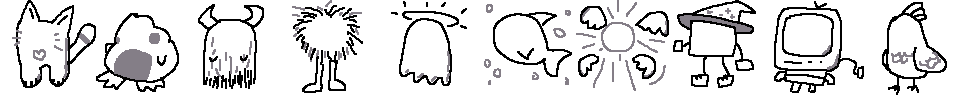
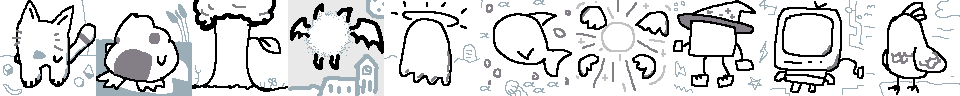
Ready for con
Add datetime, and new designs

diff --git a/side-projects/print-pals/index.html b/side-projects/print-pals/index.html
@@ -16,6 +16,7 @@
 
     body{
         font-family: Sniglet;
+        font-size: 14px;
         
     }
     .doc {
@@ -42,6 +43,7 @@
     }
     #sticker{
         display: flex;
+        position: relative;
         width:200px; height:150px; overflow: hidden;
         background-color: #fff;
         /* TODO Add the ally guide bg to this */
@@ -54,12 +56,14 @@
         /* background-size:cover; */
         height: 100%;
         display: flex;
+        align-content: center;
         flex-wrap: wrap;
         justify-content: space-between;
     }
     #sprite-container{
         flex: 1;
         position: relative;
+        min-width: 96px;
         height: 96px;
     }
     .sprite-bit{
@@ -95,19 +99,35 @@
         width: 100%;
     }
     .title{
+        font-size: 12px;
         font-weight: 500;
-        -webkit-text-stroke: 2px #333; 
+        -webkit-text-stroke: 1px #333; 
         kerning: 4px;
         padding-top: 8px;
         color: #333;
     }
     #name{
-        max-height: 2em;
+        -webkit-text-stroke: 1px #333; 
+        max-height: 3em;
+        line-height: 1em;
         overflow: hidden;
-        line-height: .8;
+        width: 96px;
+        margin-bottom: 4px;
     }
     #nature, #lvl{
         margin-left: 16px;
+        font-size: 12px;
+    }
+    #lvl{
+        margin-left: 4px;
+    }
+    #timestamp{
+        position: absolute;
+        bottom: 1px;
+        font-size: 6px;
+        /* margin-top: -3x; */
+        text-align: right;
+        width: 100%;
     }
 </style>
 <body>
@@ -125,6 +145,7 @@
 <div id="sticker">
 
     <div id="sticker-content">
+
         <div id="sprite-container">
             <div id="sprite-egg" class="sprite-bit"></div>
             <div id="sprite-blob" class="sprite-bit hidden"></div>
@@ -136,9 +157,10 @@
             <div id="name"></div>
             <div id="nature-container"> <span class="title">NATURE: </span> <div id="nature"></div></div>
 
-            <div id="level"><span class="title">LVL:</span> <div id="lvl">EGG</div> </div>
+            <div id="level"><span class="title">LVL:</span> <span id="lvl">EGG</span> </div>
         </div>
         <div id="quest-cointainer"><span class="title">QUEST:</span> <span id="quest"></span></div>
+        <div id="timestamp"></div>
 
     </div>
 </div>
@@ -149,11 +171,15 @@
 
     var natures = ["Adamant","Bashful", "Bold", "Brave", "Calm", "Careful", "Docile", "Gentle", "Hardy", "Hasty", "Impish", "Jolly", "Lax", "Lonely", "Mild", "Modest", "Naive", "Naughty", "Quiet", "Quirky", "Rash", "Relaxed", "Sassy", "Serious", "Timid"]
 
-    var quests = ["Find somebody eating cheese. What is their favorite cheese?",
-        "Catch a magnet fish. What type of fish is it?",
-        "Get a trinket from a stranger. What did you get?",
-        "Craft something from the barn. Give your art a title.",
-        "Talk to a musician. Learn their names."
+    var quests = ["Find somebody eating cheese. What's their favorite type of cheese?",
+        "Catch a magnet fish, what kind of fish is it?",
+        "Get a trinket from a stranger, what did you get?",
+        "Craft something at the craft barn. Name your art.",
+        "Talk to a musician. Learn their name.",
+        "Invent a secret handshake with as friend. What's the part?",
+        "Solve a puzzle. Any puzzle. What was the answer?",
+        "Meet a staffer, are they having a good day?",
+        "Find a pair cool sunglasses. Who owns em?"
     ]
 
 
@@ -161,7 +187,7 @@
         $save, $imgs,
         $convert, $imgW, $imgH,
         $sel,
-        $sticker, $sprite, $nature, $name, $quest, $bod, $face, $egg, $blob;
+        $sticker, $sprite, $nature, $name, $quest, $bod, $face, $egg, $blob, $timestamp;
     function init () {
         // canvas = document.getElementById('cvs');
         // ctx = canvas.getContext('2d');
@@ -190,6 +216,7 @@
         $name = document.getElementById("name")
         $lvl = document.getElementById("lvl")
         $quest = document.getElementById("quest")
+        $timestamp = document.getElementById("timestamp")
         generateBuddy()
         // document.getElementById("sticker-preview").body = html2canvas(element, {
         //     windowWidth: element.scrollWidth,
@@ -238,7 +265,7 @@
         $save.onclick = function (e) {
             htmlToImage
                 .toPng($sticker, {canvasWidth:200, canvasHeight:150})
-                .then((dataUrl) => download(dataUrl, 'sticker.png'));
+                .then((dataUrl) => download(dataUrl, getHumanFriendlyDateString()+'.png'));
             // var type = $sel.value,
             //     w = $imgW.value,
             //     h = $imgH.value;
@@ -259,7 +286,7 @@
         console.log(cyrb128(base_word)[0])
         randHash = cyrb128(base_word)[0]
         $nature.innerHTML = natures[Math.floor(randHash/10) % natures.length]
-        $quest.innerHTML = quests[Math.floor(randHash/1000) % quests.length]
+        quest1 = quests[Math.floor(randHash/1000) % quests.length]
         if(splitkey.length == 1){
             $egg.classList.remove("hidden")
             $bod.classList.add("hidden")
@@ -268,13 +295,18 @@
             console.log("egg time")
             $egg.style.backgroundPosition=96*(randHash % 10)+"px"
             $lvl.innerHTML = "egg"
+            $quest.innerHTML = quest1
         }
         else{
             face_words = splitkey[0]+splitkey[1]
             randHash = cyrb128(face_words)[0]
 
             console.log("blob")
-
+            quest2 = quests[Math.floor(randHash/1000) % quests.length]
+            if(quest1 == quest2){
+                console.log("collision")
+                quest2 = quests[(Math.floor(randHash/1000)+1) % quests.length]
+            }
             $egg.classList.add("hidden")
             $face.classList.remove("hidden")
             $bod.classList.add("hidden")
@@ -283,6 +315,7 @@
             if(splitkey.length == 2){
                 $blob.style.backgroundPosition=96*(Math.floor(randHash/10) % 10)+"px"
                 $lvl.innerHTML = "blob"
+                $quest.innerHTML = quest2
             }
             else{
                 randHash = cyrb128($key.value)[0]
@@ -291,16 +324,17 @@
                 $blob.classList.add("hidden")
                 $bod.style.backgroundPosition=96*(randHash % 10)+"px"
                 $lvl.innerHTML = "<3 buddy"
+                quest3 = quests[Math.floor(randHash/1000) % quests.length]
+                if(quest2 == quest3){
+                    console.log("collision")
+                    quest3 = quests[(Math.floor(randHash/1000)+1) % quests.length]
+                }
+                $quest.innerHTML = quest3
             }
         }
 
         $name.innerHTML = $key.value
-        if(splitkey.length == 1){
-        }
-        $bod.style.backgroundPosition=96*(cyrb128(base)[0] % 10)+"px"
-        $face.style.backgroundPosition=96*(cyrb128(base)[1] % 10)+"px"
-
-
+        $timestamp.innerHTML = getHumanFriendlyDateString()
     }
     function draw () {
         // ctx.fillStyle = '#ffffff';
@@ -309,6 +343,19 @@
         // ctx.fillRect(100, 100, 50, 50);
     }
     
+
+    // Quick date format script from Alex Chan https://alexwlchan.net/2020/human-friendly-dates-in-javascript/
+    const dateFormatter = new Intl.DateTimeFormat(
+        [], {"month": "long", "day": "numeric", "weekday": "short"}
+    )
+
+    const timeFormatter = new Intl.DateTimeFormat(
+        [], {"hour": "numeric", "minute": "numeric"}
+    )
+    function getHumanFriendlyDateString() {
+        const date = new Date();
+        return dateFormatter.format(date) + ", " + timeFormatter.format(date);
+    }
     
     onload = init;
 </script>
